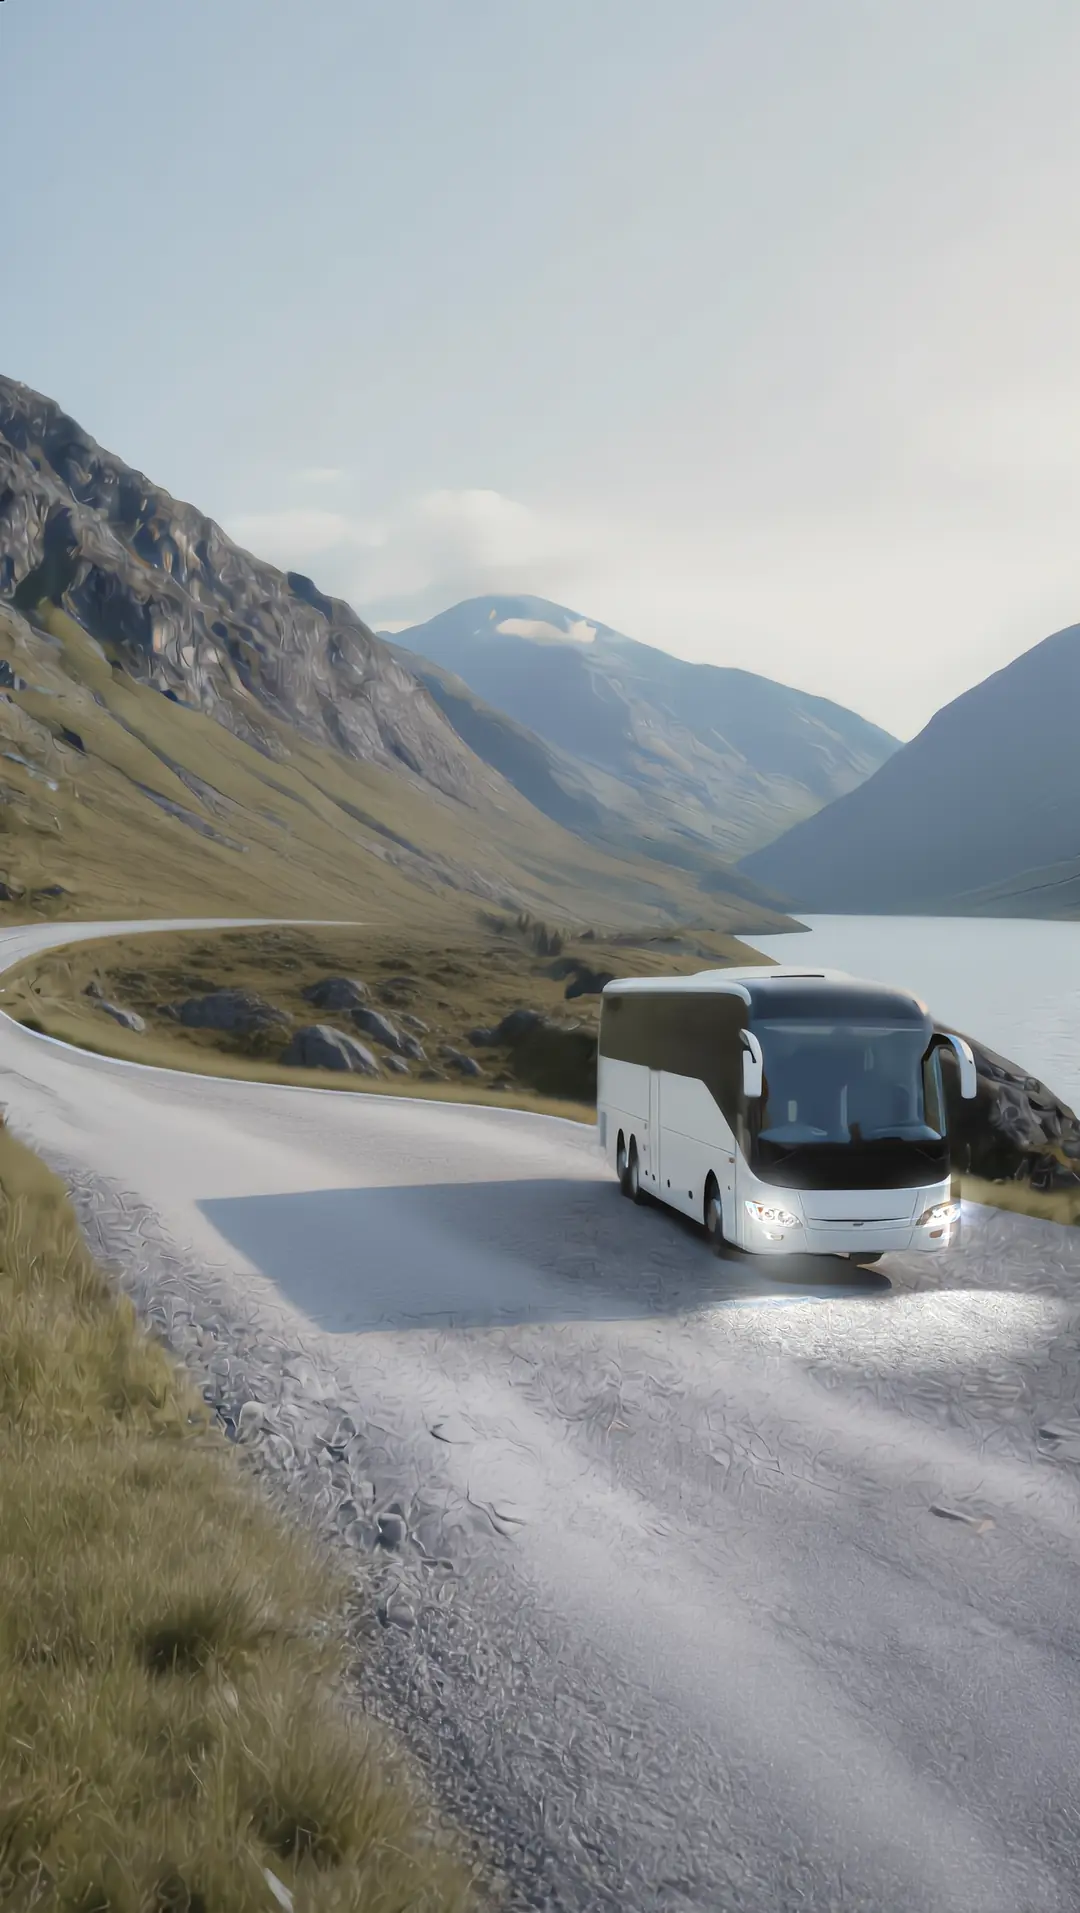
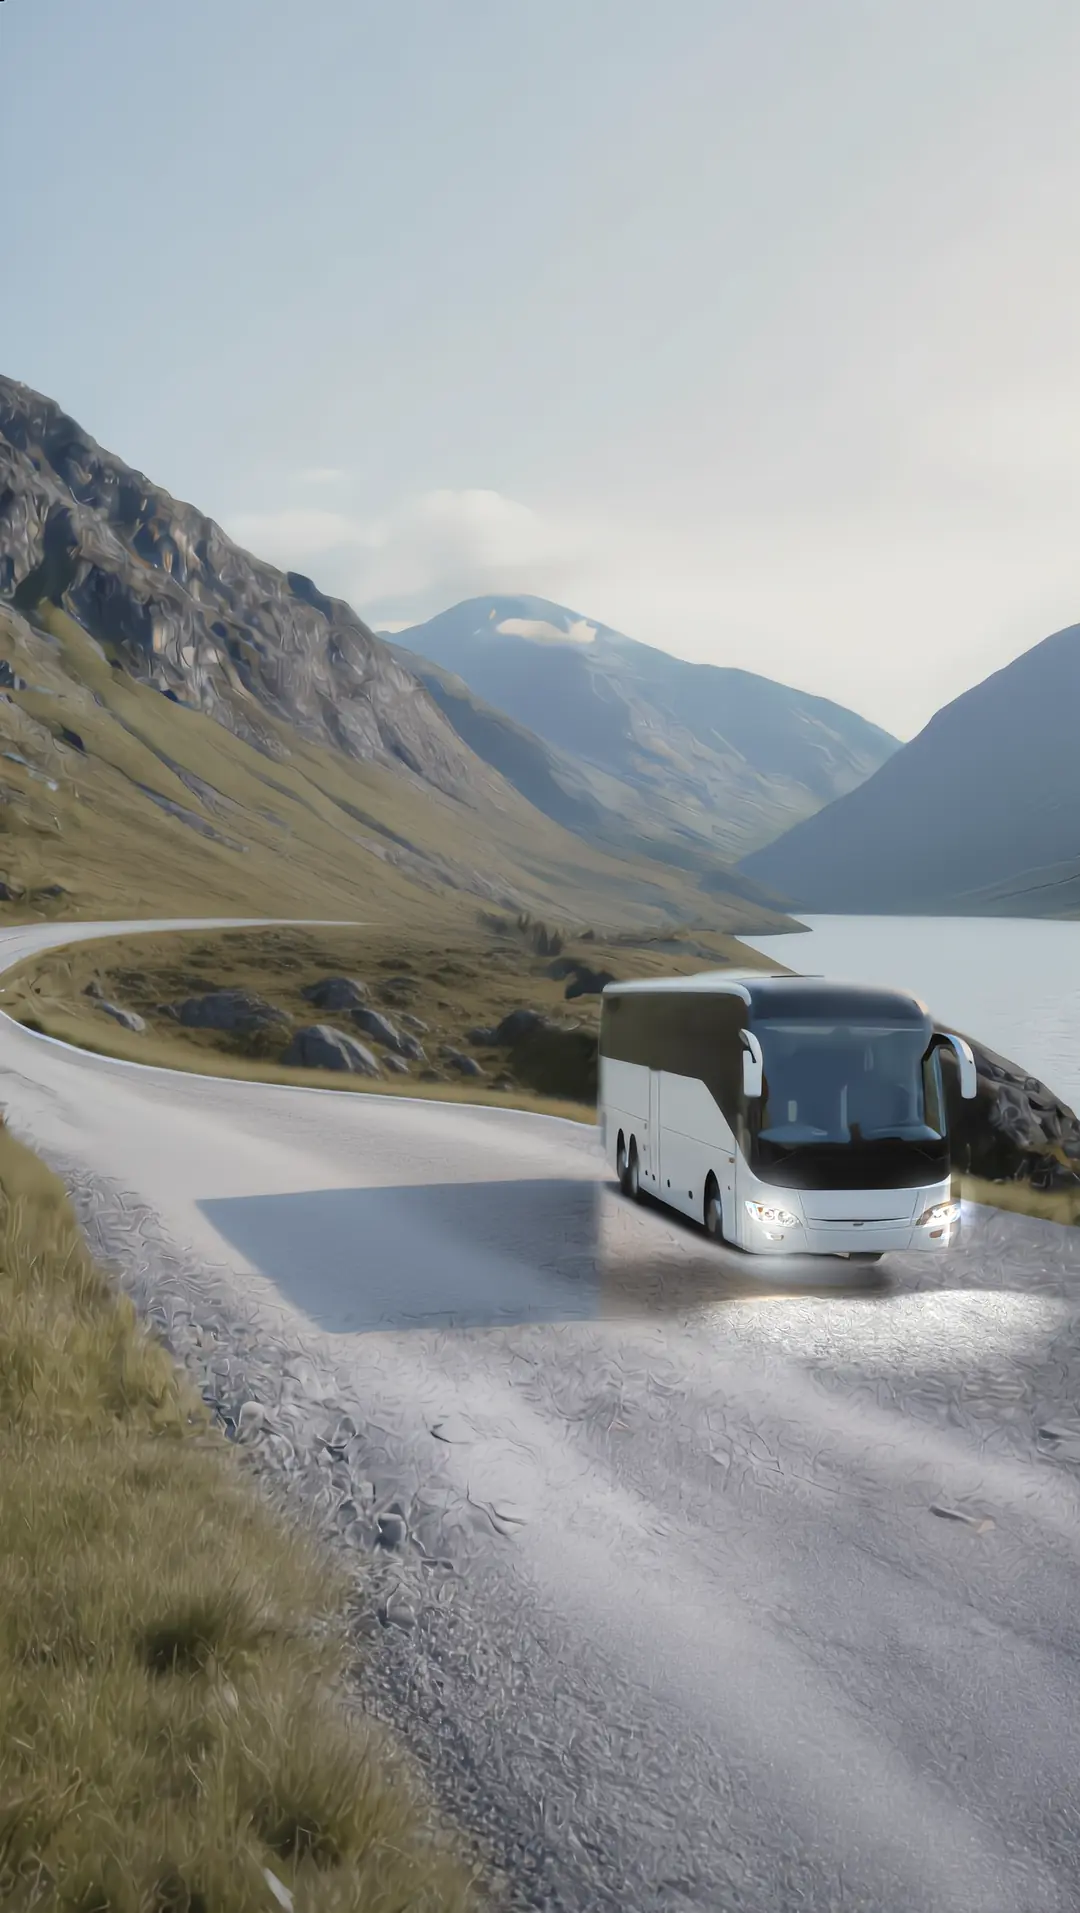
Fix bus shadow and headlight glow in the vertical /choose/ scene
- common frame: the bus shadow is now the diagonal band from the original
  intro-mobile-photo (aligned at 1.8631/1.8705 scale, -6/-16.5 offset),
  transferred as road shading onto the sharp intro-mobile-only-truck. The
  bus-only render draws it as a flat rectangle, which left hard corners and
  a seam under the truck. The bus body is cut by its outline, and everything
  right of it comes from the same frame, so no seam by the rocks
- bus layer: the road left of the bus comes entirely from the bus-only render
- bus headlights: the transferred glow is clipped right of the bus front,
  removing the patch next to the right headlight
- fix: the second paste in build-layers.sh inherited -compose multiply

Claude-Session: https://claude.ai/code/session_01QnLGxmMJTS6H4BxBkXsJMw

Changed region(s): [[0.55, 0.6168, 0.825, 0.6785], [0.6722, 0.4935, 0.7333, 0.5243], [0.55, 0.5551, 0.5806, 0.586]]

diff --git a/CLAUDE.md b/CLAUDE.md
@@ -113,9 +113,12 @@
   остальные слои `choose.js` грузит из `data-h` / `data-v`. Поворот телефона переключает набор на лету.
   Наведения на телефоне нет: нажатие на машину сразу запускает сценарий.
 - Вертикальные исходники: `intro-mobile-only-truck.png`, `intro-mobile-only-bus.png` (совпадают между собой),
-  `intro-mobile-photo.png` (меньше и чуть смещён — только образец). Скрипт собирает общий кадр из двух первых
-  (с тенью автобуса, которая падает под перед фуры), а свет фар переносит из горизонтальных слоёв — своих версий
-  с фарами у вертикальных кадров нет. Результат — `intro-mobile-*-updated.png`.
+  `intro-mobile-photo.png` (общий кадр 832×1472, подогнан масштабом и сдвигом). Скрипт собирает общий кадр из
+  «только фуры» + кузова автобуса (по контуру) из «только автобуса»; тень автобуса (диагональная полоса под передом
+  фуры) переносится с исходного общего кадра как затемнение дороги — в «только автобусе» нейросеть нарисовала её
+  прямоугольником без фактуры. В слое «только автобус» дорога слева от автобуса — из «только автобуса» целиком.
+  Свет фар переносится из горизонтальных слоёв (своих версий с фарами нет), справа от передней части автобуса
+  обрезан. Результат — `intro-mobile-*-updated.png`.
 - Звук: `src/choose/media/engine-truck.mp3` и `engine-bus.mp3`. Подключаются, только если файл есть: `build.js`
   записывает найденные в `data-sounds`. Играют только по клику/нажатию; при `prefers-reduced-motion` — без звука
   и без плавных переходов.
